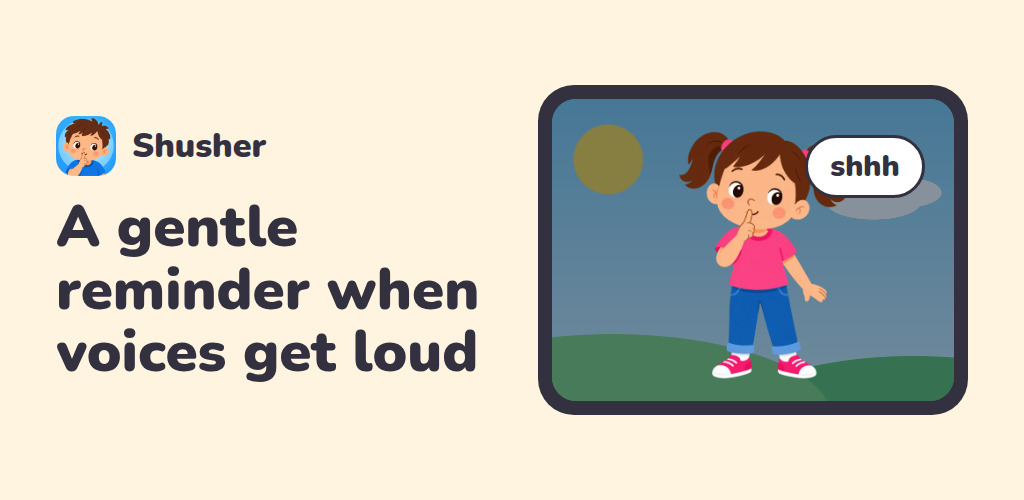
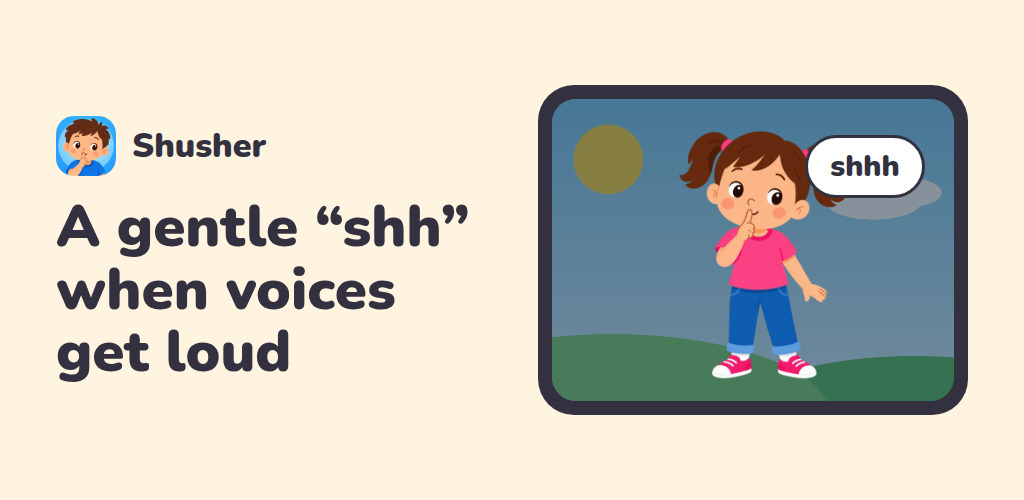
feat: refine English and Spanish copy on the site, app and Play listing
- New headline: A gentle “shh” when voices get loud / Un «shh» amable para bajar la voz.
- Say who the app is for up front, explain the scream detection before the orange zone,
  and drop wording that implied clinical results.
- Use the new headline as the app subtitle and in the Play feature graphics
  (tools/build_site.py --play).
- Bump version to 1.0.3 (versionCode 4).

Changed region(s): [[0.0312, 0.66, 0.4688, 0.78], [0.0625, 0.54, 0.4688, 0.63], [0.3125, 0.39, 0.4688, 0.51]]

diff --git a/docs/index.html b/docs/index.html
@@ -3,7 +3,7 @@
 <head>
 <meta charset="utf-8">
 <meta name="viewport" content="width=device-width, initial-scale=1">
-<title>Shusher · A gentle reminder when voices get loud</title>
+<title>Shusher · A gentle “shh” when voices get loud</title>
 <meta name="description" content="Free Android app that shows a calm visual reminder when it hears a scream. Made for autistic kids who shout while using their tablet, and for the families who support them.">
 <link rel="canonical" href="https://gmoqa.github.io/shusher/">
 <link rel="alternate" hreflang="en" href="https://gmoqa.github.io/shusher/">
@@ -14,7 +14,7 @@
 <meta name="theme-color" content="#FFF4E0">
 <meta property="og:type" content="website">
 <meta property="og:site_name" content="Shusher">
-<meta property="og:title" content="Shusher · A gentle reminder when voices get loud">
+<meta property="og:title" content="Shusher · A gentle “shh” when voices get loud">
 <meta property="og:description" content="Free Android app that shows a calm visual reminder when it hears a scream. Made for autistic kids who shout while using their tablet, and for the families who support them.">
 <meta property="og:url" content="https://gmoqa.github.io/shusher/">
 <meta property="og:image" content="https://gmoqa.github.io/shusher/img/og-en.jpg">
@@ -26,7 +26,7 @@
 <meta property="og:locale:alternate" content="pt_BR">
 <meta property="og:locale:alternate" content="fr_FR">
 <meta name="twitter:card" content="summary_large_image">
-<meta name="twitter:title" content="Shusher · A gentle reminder when voices get loud">
+<meta name="twitter:title" content="Shusher · A gentle “shh” when voices get loud">
 <meta name="twitter:description" content="Free Android app that shows a calm visual reminder when it hears a scream. Made for autistic kids who shout while using their tablet, and for the families who support them.">
 <meta name="twitter:image" content="https://gmoqa.github.io/shusher/img/og-en.jpg">
 <link rel="icon" href="favicon.png">
@@ -235,8 +235,8 @@
   <main>
     <div class="hero">
       <div>
-        <h1>A gentle reminder when voices get loud</h1>
-        <p class="lead">When your child shouts while using the tablet, a friendly character appears going “shh”. No scolding, no scares.</p>
+        <h1>A gentle “shh” when voices get loud</h1>
+        <p class="lead">Made for autistic kids who shout while using the tablet, and for the families who support them. When a scream is heard, a friendly character pops up and goes “shh”. No scolding, no scares: just a clear signal your child can see.</p>
         <div class="buttons">
           <a class="btn" href="#get">Download for Android</a>
           <a class="btn ghost" href="#how">See how it works</a>
@@ -259,28 +259,28 @@
     <section id="how">
       <div class="intro center">
         <h2>How it works</h2>
-        <p class="muted">Always the same three steps. A predictable reminder is part of the idea.</p>
+        <p class="muted">It always works the same way, so the reminder is predictable and never startling.</p>
       </div>
       <div class="steps">
         <div class="step card">
           <div class="art"><svg class="i ear" aria-hidden="true"><use href="#i-hearing"/></svg></div>
           <div class="body">
             <span class="num">1</span><h3>It listens</h3>
-            <p>While the screen is on, it measures how loud it is. It never records.</p>
+            <p>While the screen is on, it measures how loud the room is. It never records.</p>
           </div>
         </div>
         <div class="step card">
           <div class="art"><div class="meter"></div></div>
           <div class="body">
-            <span class="num">2</span><h3>It spots the scream</h3>
-            <p>If the sound reaches the orange zone, it’s a scream. Short bangs don’t count.</p>
+            <span class="num">2</span><h3>It notices a scream</h3>
+            <p>If the sound stays loud for a moment, it counts as a scream. A slammed door or a quick bang doesn’t.</p>
           </div>
         </div>
         <div class="step card">
           <div class="art"><img class="mini" src="img/boy.webp" width="160" height="320" alt="" loading="lazy"></div>
           <div class="body">
-            <span class="num">3</span><h3>It reminds, calmly</h3>
-            <p>The screen dims softly, a character appears and a “shh” plays. Two seconds later, all is back.</p>
+            <span class="num">3</span><h3>It reminds, gently</h3>
+            <p>The screen dims softly, a character appears and a “shh” plays. Two seconds later, everything is back to normal.</p>
           </div>
         </div>
       </div>
@@ -289,19 +289,19 @@
     <section id="families">
       <div class="intro center">
         <h2>You stay in control</h2>
-        <p class="muted">A simple screen for parents and therapists. These are real screenshots.</p>
+        <p class="muted">Everything is set up from one simple screen, made for parents, caregivers and therapists.</p>
       </div>
       <div class="rows">
         <div class="row">
-          <div><h3>Sensitivity that fits your child</h3><p>Talk and watch the green bar move. Slide the dot just above a normal voice: only shouts will reach the orange zone.</p></div>
+          <div><h3>Sensitivity that fits your child</h3><p>Talk and watch the green bar move. Place the dot just above a normal voice, so only shouts reach the orange zone.</p></div>
           <div class="media"><img class="shot" src="img/screens/en-sensitivity.webp" width="900" height="301" alt="Screenshot: the sensitivity card with the green bar and the orange zone" loading="lazy"></div>
         </div>
         <div class="row flip">
-          <div><h3>See how the week is going</h3><p>Count today’s reminders and compare the last seven days. Fewer reminders, calmer days.</p></div>
+          <div><h3>Follow the week</h3><p>See how many reminders there were today and over the last seven days.</p></div>
           <div class="media"><img class="shot" src="img/screens/en-history.webp" width="900" height="503" alt="Screenshot: today’s reminders and the last seven days" loading="lazy"></div>
         </div>
         <div class="row">
-          <div><h3>Their favorite characters</h3><p>It comes with a girl and a boy. Add PNG images of the characters your child knows and loves; one appears at random.</p></div>
+          <div><h3>Their favorite characters</h3><p>It comes with a girl and a boy, and you can add the characters your child already knows and loves (as PNG images). One appears at random with each reminder.</p></div>
           <div class="media">
             <div class="tiles">
               <div class="tile"><img src="img/girl.webp" width="379" height="560" alt="" loading="lazy"></div>
@@ -321,9 +321,9 @@
 
     <section>
       <div class="strip">
-        <div class="card"><svg class="i" aria-hidden="true"><use href="#i-nightlight"/></svg><b>Soft, never flashing</b></div>
-        <div class="card"><svg class="i" aria-hidden="true"><use href="#i-bolt"/></svg><b>Quick Settings button</b></div>
-        <div class="card"><svg class="i" aria-hidden="true"><use href="#i-battery_charging_full"/></svg><b>Battery friendly</b></div>
+        <div class="card"><svg class="i" aria-hidden="true"><use href="#i-nightlight"/></svg><b>Calm, no flashing</b></div>
+        <div class="card"><svg class="i" aria-hidden="true"><use href="#i-bolt"/></svg><b>One tap from Quick Settings</b></div>
+        <div class="card"><svg class="i" aria-hidden="true"><use href="#i-battery_charging_full"/></svg><b>Easy on the battery</b></div>
         <div class="card"><svg class="i" aria-hidden="true"><use href="#i-language"/></svg><b>4 languages</b></div>
       </div>
     </section>
@@ -331,7 +331,7 @@
     <section>
       <div class="privacy">
         <h2>Your audio never leaves the device</h2>
-        <p>Shusher doesn’t even have internet access. Sound is only used to measure volume and is discarded right away. No accounts, ads or tracking.</p>
+        <p>Shusher doesn’t even have internet access. Sound is only used to measure the volume and is discarded right away. No accounts, no ads, no tracking.</p>
       </div>
     </section>
 
@@ -340,11 +340,11 @@
         <h2>Get Shusher for free</h2>
         <ol>
           <li>Download the APK on your Android tablet or phone.</li>
-          <li>Open it and allow installing from that source.</li>
-          <li>Choose a language and tap Start. Done!</li>
+          <li>Open it and, if your device asks, allow installing apps from that source.</li>
+          <li>Choose your language and tap Start. That’s it!</li>
         </ol>
         <a class="btn" href="https://github.com/gmoqa/shusher/releases/latest">Download APK</a>
-        <p class="dev muted">Are you a developer? <a href="https://github.com/gmoqa/shusher">Build it from the source code</a>.</p>
+        <p class="dev muted">Know how to code? <a href="https://github.com/gmoqa/shusher">Build it from the source code</a>.</p>
       </div>
     </section>
   </main>

diff --git a/docs/es/index.html b/docs/es/index.html
@@ -3,7 +3,7 @@
 <head>
 <meta charset="utf-8">
 <meta name="viewport" content="width=device-width, initial-scale=1">
-<title>Shusher · Un aviso amable cuando la voz sube</title>
+<title>Shusher · Un «shh» amable para bajar la voz</title>
 <meta name="description" content="App Android gratuita que muestra un aviso visual tranquilo cuando detecta un grito. Pensada para niños y niñas autistas que gritan mientras usan la tablet, y para sus familias.">
 <link rel="canonical" href="https://gmoqa.github.io/shusher/es/">
 <link rel="alternate" hreflang="en" href="https://gmoqa.github.io/shusher/">
@@ -14,7 +14,7 @@
 <meta name="theme-color" content="#FFF4E0">
 <meta property="og:type" content="website">
 <meta property="og:site_name" content="Shusher">
-<meta property="og:title" content="Shusher · Un aviso amable cuando la voz sube">
+<meta property="og:title" content="Shusher · Un «shh» amable para bajar la voz">
 <meta property="og:description" content="App Android gratuita que muestra un aviso visual tranquilo cuando detecta un grito. Pensada para niños y niñas autistas que gritan mientras usan la tablet, y para sus familias.">
 <meta property="og:url" content="https://gmoqa.github.io/shusher/es/">
 <meta property="og:image" content="https://gmoqa.github.io/shusher/img/og-es.jpg">
@@ -26,7 +26,7 @@
 <meta property="og:locale:alternate" content="pt_BR">
 <meta property="og:locale:alternate" content="fr_FR">
 <meta name="twitter:card" content="summary_large_image">
-<meta name="twitter:title" content="Shusher · Un aviso amable cuando la voz sube">
+<meta name="twitter:title" content="Shusher · Un «shh» amable para bajar la voz">
 <meta name="twitter:description" content="App Android gratuita que muestra un aviso visual tranquilo cuando detecta un grito. Pensada para niños y niñas autistas que gritan mientras usan la tablet, y para sus familias.">
 <meta name="twitter:image" content="https://gmoqa.github.io/shusher/img/og-es.jpg">
 <link rel="icon" href="../favicon.png">
@@ -235,8 +235,8 @@
   <main>
     <div class="hero">
       <div>
-        <h1>Un aviso amable cuando la voz sube</h1>
-        <p class="lead">Cuando tu hijo o hija grita mientras usa la tablet, aparece un personaje amigable haciendo «shh». Sin regaños, sin sustos.</p>
+        <h1>Un «shh» amable para bajar la voz</h1>
+        <p class="lead">Pensada para niños y niñas autistas que gritan mientras usan la tablet, y para sus familias. Cuando detecta un grito, aparece un personaje amigable que hace «shh». Sin regaños ni sustos: solo una señal clara que tu hijo o hija puede ver.</p>
         <div class="buttons">
           <a class="btn" href="#get">Descargar para Android</a>
           <a class="btn ghost" href="#how">Ver cómo funciona</a>
@@ -259,28 +259,28 @@
     <section id="how">
       <div class="intro center">
         <h2>Cómo funciona</h2>
-        <p class="muted">Siempre los mismos tres pasos. Que el aviso sea predecible es parte de la idea.</p>
+        <p class="muted">Siempre funciona igual, para que el aviso sea predecible y nunca asuste.</p>
       </div>
       <div class="steps">
         <div class="step card">
           <div class="art"><svg class="i ear" aria-hidden="true"><use href="#i-hearing"/></svg></div>
           <div class="body">
             <span class="num">1</span><h3>Escucha</h3>
-            <p>Con la pantalla encendida, mide qué tan fuerte suena. Nunca graba.</p>
+            <p>Con la pantalla encendida, mide el volumen del ambiente. Nunca graba.</p>
           </div>
         </div>
         <div class="step card">
           <div class="art"><div class="meter"></div></div>
           <div class="body">
             <span class="num">2</span><h3>Detecta el grito</h3>
-            <p>Si el sonido llega a la zona naranja, es un grito. Los golpes cortos no cuentan.</p>
+            <p>Si el sonido se mantiene alto un momento, cuenta como grito. Un portazo o un golpe corto, no.</p>
           </div>
         </div>
         <div class="step card">
           <div class="art"><img class="mini" src="../img/boy.webp" width="160" height="320" alt="" loading="lazy"></div>
           <div class="body">
             <span class="num">3</span><h3>Avisa con calma</h3>
-            <p>La pantalla se oscurece suave, aparece un personaje y suena un «shh». A los dos segundos, todo vuelve.</p>
+            <p>La pantalla se oscurece con suavidad, aparece un personaje y suena un «shh». A los dos segundos, todo vuelve a la normalidad.</p>
           </div>
         </div>
       </div>
@@ -289,19 +289,19 @@
     <section id="families">
       <div class="intro center">
         <h2>Tú tienes el control</h2>
-        <p class="muted">Una pantalla simple para familias y terapeutas. Estas son capturas reales.</p>
+        <p class="muted">Todo se configura desde una sola pantalla, pensada para familias, cuidadores y terapeutas.</p>
       </div>
       <div class="rows">
         <div class="row">
-          <div><h3>Sensibilidad a la medida</h3><p>Habla y mira cómo se mueve la barra verde. Deja el punto justo por encima de una voz normal: solo los gritos llegarán a la zona naranja.</p></div>
+          <div><h3>Sensibilidad a la medida de cada niño</h3><p>Habla y mira cómo se mueve la barra verde. Deja el punto justo por encima de una voz normal: así solo los gritos llegan a la zona naranja.</p></div>
           <div class="media"><img class="shot" src="../img/screens/es-sensitivity.webp" width="900" height="301" alt="Captura: la tarjeta de sensibilidad con la barra verde y la zona naranja" loading="lazy"></div>
         </div>
         <div class="row flip">
-          <div><h3>Mira cómo va la semana</h3><p>Cuenta los avisos de hoy y compara los últimos siete días. Menos avisos, días más tranquilos.</p></div>
+          <div><h3>Sigue cómo va la semana</h3><p>Mira cuántos avisos hubo hoy y en los últimos siete días.</p></div>
           <div class="media"><img class="shot" src="../img/screens/es-history.webp" width="900" height="503" alt="Captura: los avisos de hoy y de los últimos siete días" loading="lazy"></div>
         </div>
         <div class="row">
-          <div><h3>Sus personajes favoritos</h3><p>Trae una niña y un niño. Agrega las imágenes PNG de los personajes que tu hijo o hija conoce y quiere; aparece uno al azar.</p></div>
+          <div><h3>Sus personajes favoritos</h3><p>Incluye una niña y un niño, y puedes sumar a los personajes que tu hijo o hija ya conoce y quiere (imágenes PNG). En cada aviso aparece uno al azar.</p></div>
           <div class="media">
             <div class="tiles">
               <div class="tile"><img src="../img/girl.webp" width="379" height="560" alt="" loading="lazy"></div>
@@ -321,8 +321,8 @@
 
     <section>
       <div class="strip">
-        <div class="card"><svg class="i" aria-hidden="true"><use href="#i-nightlight"/></svg><b>Suave, nunca parpadea</b></div>
-        <div class="card"><svg class="i" aria-hidden="true"><use href="#i-bolt"/></svg><b>Botón en ajustes rápidos</b></div>
+        <div class="card"><svg class="i" aria-hidden="true"><use href="#i-nightlight"/></svg><b>Tranquilo, sin destellos</b></div>
+        <div class="card"><svg class="i" aria-hidden="true"><use href="#i-bolt"/></svg><b>Se activa desde la barra</b></div>
         <div class="card"><svg class="i" aria-hidden="true"><use href="#i-battery_charging_full"/></svg><b>Cuida la batería</b></div>
         <div class="card"><svg class="i" aria-hidden="true"><use href="#i-language"/></svg><b>4 idiomas</b></div>
       </div>
@@ -331,20 +331,20 @@
     <section>
       <div class="privacy">
         <h2>Tu audio nunca sale del dispositivo</h2>
-        <p>Shusher ni siquiera tiene acceso a internet. El sonido solo se usa para medir el volumen y se descarta al instante. Sin cuentas, publicidad ni rastreo.</p>
+        <p>Shusher ni siquiera tiene acceso a internet. El sonido solo se usa para medir el volumen y se descarta al instante. Sin cuentas, sin publicidad, sin rastreo.</p>
       </div>
     </section>
 
     <section id="get">
       <div class="get card">
-        <h2>Consigue Shusher gratis</h2>
+        <h2>Descarga Shusher gratis</h2>
         <ol>
           <li>Descarga el APK en tu tablet o teléfono Android.</li>
-          <li>Ábrelo y permite instalar desde esa fuente.</li>
+          <li>Ábrelo y, si el teléfono lo pide, permite instalar apps de esa fuente.</li>
           <li>Elige el idioma y toca Activar. ¡Listo!</li>
         </ol>
         <a class="btn" href="https://github.com/gmoqa/shusher/releases/latest">Descargar APK</a>
-        <p class="dev muted">¿Desarrollas? <a href="https://github.com/gmoqa/shusher">Compílalo desde el código</a>.</p>
+        <p class="dev muted">¿Sabes programar? <a href="https://github.com/gmoqa/shusher">Compílala desde el código fuente</a>.</p>
       </div>
     </section>
   </main>

diff --git a/tools/build_site.py b/tools/build_site.py
@@ -5,6 +5,7 @@ una página estática por idioma, con hreflang, URL canónica, datos estructurad
 
     python3 tools/build_site.py          # páginas y sitemap
     python3 tools/build_site.py --og     # además, las imágenes para compartir (requiere google-chrome e ImageMagick)
+    python3 tools/build_site.py --play   # además, la imagen destacada de Google Play en fastlane/metadata
 """
 import html
 import json
@@ -138,6 +139,32 @@ def og_images():
             print(f"docs/img/og-{lang}.jpg")
 
 
+def play_graphics():
+    # Imagen destacada de Google Play (1024x500) por idioma, con el mismo diseño que las de compartir.
+    og = (SITE / "og.html").read_text(encoding="utf-8")
+    for old, new in [("width: 1200px; height: 630px", "width: 1024px; height: 500px"),
+                     ("grid-template-columns: 1fr 500px; gap: 40px", "grid-template-columns: 1fr 430px; gap: 36px"),
+                     ("font-size: 70px", "font-size: 58px"),
+                     ("font-size: 40px; font-weight: 900; margin-bottom: 28px", "font-size: 34px; font-weight: 900; margin-bottom: 20px"),
+                     (".brand img { width: 72px; height: 72px;", ".brand img { width: 60px; height: 60px;")]:
+        assert old in og, old
+        og = og.replace(old, new)
+    locales = {"en": "en-US", "es": "es-419", "pt": "pt-BR", "fr": "fr-FR"}
+    with tempfile.TemporaryDirectory() as tmp:
+        for lang, loc in locales.items():
+            page = pathlib.Path(tmp) / f"{lang}.html"
+            page.write_text(og.replace("{{h1}}", html.escape(STRINGS[lang]["hero.h1"]))
+                              .replace("{{bubble}}", html.escape(STRINGS[lang]["bubble"]))
+                              .replace("{{docs}}", DOCS.as_uri() + "/"), encoding="utf-8")
+            shot = pathlib.Path(tmp) / f"{lang}.png"
+            subprocess.run(["google-chrome", "--headless=new", "--disable-gpu", "--hide-scrollbars",
+                            f"--user-data-dir={tmp}/chrome", "--window-size=1024,500", "--virtual-time-budget=3000",
+                            f"--screenshot={shot}", page.as_uri()], check=True, capture_output=True)
+            out = ROOT / "fastlane" / "metadata" / "android" / loc / "images" / "featureGraphic.jpg"
+            subprocess.run(["magick", shot, "-strip", "-quality", "92", out], check=True)
+            print(out.relative_to(ROOT))
+
+
 def main():
     template = (SITE / "template.html").read_text(encoding="utf-8")
     sprite = icon_sprite()
@@ -157,6 +184,8 @@ def main():
     print("docs/sitemap.xml")
     if "--og" in sys.argv:
         og_images()
+    if "--play" in sys.argv:
+        play_graphics()
 
 
 if __name__ == "__main__":
